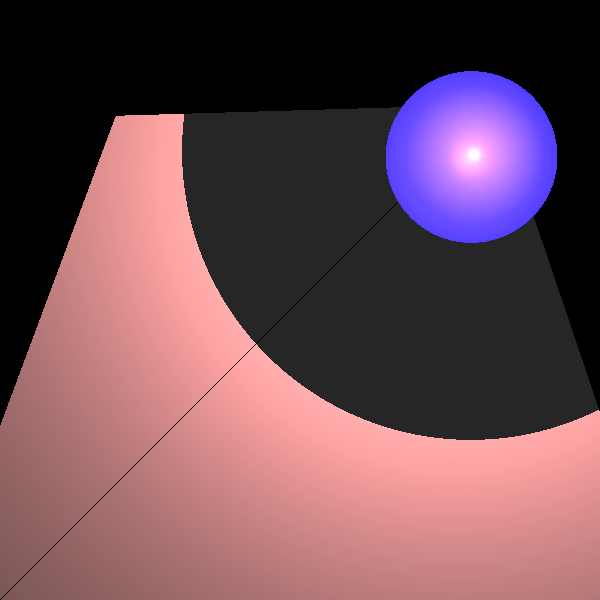
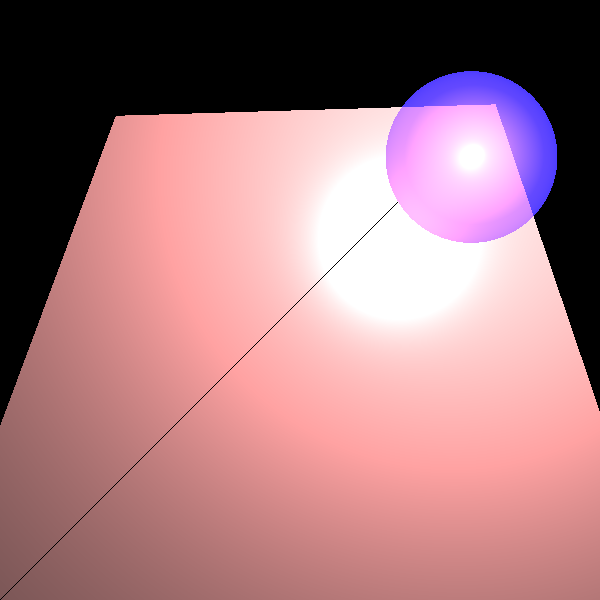
19/5

Changed region(s): [[0.3, 0.15, 1.0, 0.75]]

diff --git a/src/renderer/RayTracerBasic.java b/src/renderer/RayTracerBasic.java
@@ -40,8 +40,9 @@ public class RayTracerBasic extends RayTracerBase {
 	public Color traceRay(Ray ray) {
 //		List<GeoPoint> intersections = scene.geometries.findGeoIntersections(ray);
 //		if (intersections == null)
-//			return scene.background;
+//			return this.scene.background;
 //		GeoPoint closestPoint = ray.findClosestGeoPoint(intersections);
+//		return calcColor(closestPoint, ray);// calculate the color of the point
 		GeoPoint closestPoint = findClosestIntersection(ray);
 		if (closestPoint == null)
 			return scene.background;
@@ -110,15 +111,6 @@ public class RayTracerBasic extends RayTracerBase {
 		}
 		return color;
 	}
-
-	/// **
-	// * calculate the color of a point
-	// * @param point a point
-	// * @return the color of the point
-	// */
-	// private Color calcColor(GeoPoint point) {
-	// return scene.ambientLight.getIntensity().add(point.geometry.getEmmission());
-	// }
 
 	/**
 	 * calc Local Effects - diffusive and Specular
@@ -222,7 +214,7 @@ public class RayTracerBasic extends RayTracerBase {
 			return true;// if there are not intersection points - unshadow
 		double lightDistance = lightSource.getDistance(gp.point);
 		for (GeoPoint g : intersections) {
-			if ((Util.alignZero(g.point.distance(point) - lightDistance) <= 0) && (gp.geometry.getMaterial().kT == 0))
+			if (Util.alignZero(g.point.distance(point) - lightDistance) <= 0 && g.geometry.getMaterial().kT == 0)
 				return false;
 		}
 		return true;
@@ -238,6 +230,7 @@ public class RayTracerBasic extends RayTracerBase {
 	 */
 	private Ray constructRefractedRay(Point3D pointGeo, Ray inRay, Vector n) {
 		Vector v = inRay.getDir();
+		// Vector r = v;
 		Vector delta = n.scale(n.dotProduct(v) > 0 ? DELTA : -DELTA);// where we need to move the point
 		Point3D pointDelta = pointGeo.add(delta);// moving the pointF
 		return new Ray(pointDelta, inRay.getDir());
@@ -259,10 +252,9 @@ public class RayTracerBasic extends RayTracerBase {
 		if (Util.isZero(vn)) {
 			return null;
 		}
-		Vector delta = n.scale(n.dotProduct(v) > 0 ? DELTA : -DELTA);// where we need to move the point
+		Vector r = (v.subtract(n.scale(2 * vn))).normalized();
+		Vector delta = n.scale(n.dotProduct(r) > 0 ? DELTA : -DELTA);// where we need to move the point
 		Point3D pointDelta = pointGeo.add(delta);// moving the point
-
-		Vector r = v.subtract(n.scale(2 * vn));
 		return new Ray(pointDelta, r);
 
 	}
@@ -279,23 +271,24 @@ public class RayTracerBasic extends RayTracerBase {
 			return null;
 		}
 
-//            GeoPoint closestPoint = null;
-//            double closestDistance = Double.MAX_VALUE;
-//            Point3D ray_p0 = ray.getP0();
+//		GeoPoint closestPoint = null;
+//		double closestDistance = Double.MAX_VALUE;
+//		Point3D ray_p0 = ray.getP0();
 
 		List<GeoPoint> intersections = scene.geometries.findGeoIntersections(ray);
 		return ray.findClosestGeoPoint(intersections);
-		// if (intersections == null)
-//               return null;
+//		if (intersections == null)
+//			return null;
 //
-//            for (GeoPoint geoPoint : intersections) {
-//                double distance = ray_p0.distance(geoPoint.point);
-//                if (distance < closestDistance) {
-//                    closestDistance = distance;
-//                    closestPoint = geoPoint;
-//                }
-//            }
-		// return closestPoint;
+//		for (GeoPoint geoPoint : intersections) {
+//			double distance = ray_p0.distance(geoPoint.point);
+//			if (distance < closestDistance) {
+//				closestDistance = distance;
+//				closestPoint = geoPoint;
+//			}
+//		}
+//		return closestPoint;
 	}
+	// }
 
 }

diff --git a/src/primitives/Ray.java b/src/primitives/Ray.java
@@ -29,7 +29,7 @@ public class Ray {
 	public Ray(Point3D p0, Vector dir) throws IllegalArgumentException {
 		super();
 		this.p0 = p0;
-		this.dir = dir.normalize();
+		this.dir = dir.normalized();
 	}
 
 	@Override
